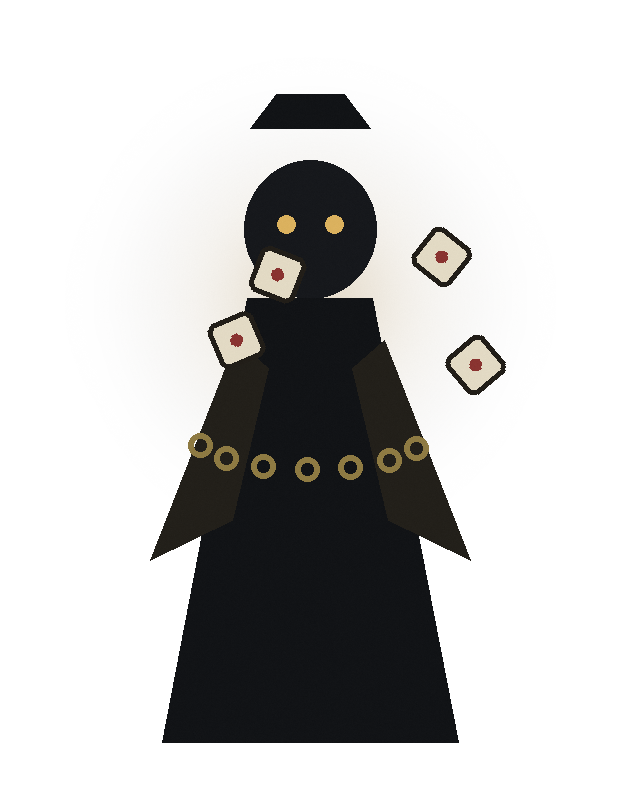
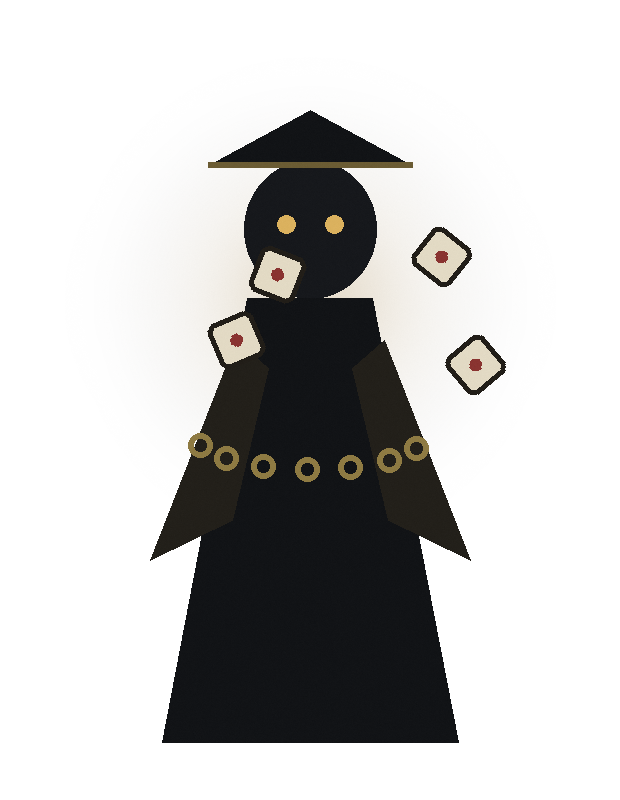
角色形象核对修正 + 全卡牌符号特效
- 修复 4 处形象错位：灯笼小鬼(悬空杆/异物→双灯)、赌鬼(帽悬浮→贴合)、
  义庄看守(散环→锁链连臂)、守灯人(断杖→杖连灯笼)
- 新增 bell_wave 钟波原语；paper_burst 支持色调
- 断念=红灰纸屑 / 灯芯=余烬+灯晕 / 撞钟=钟波震屏，7 张可玩卡全部有专属特效
- CONTENT_DESIGN 新增特效词库：10 原语库 + 21 张新卡映射 + 8 敌专属原语计划
- 烟雾 + 54 项视觉验证通过

Changed region(s): [[0.3371, 0.0938, 0.6742, 0.2188]]

diff --git a/tools/generate_game_assets.py b/tools/generate_game_assets.py
@@ -62,14 +62,14 @@ def make_lantern_imp() -> None:
     draw.ellipse((190, 240, 370, 470), fill=INK)
     draw.ellipse((225, 175, 335, 285), fill=INK)
     eyes(draw, 280, 225, 26, "#f2a03c", 9)
-    for arm_x, tip in [(150, (96, 380)), (410, (464, 380))]:
-        draw.line((230 if arm_x < 280 else 330, 330, arm_x, tip[1]), fill=INK, width=22)
+    draw.line((230, 330, 150, 386), fill=INK, width=22)
+    draw.line((330, 330, 424, 386), fill=INK, width=22)
     draw.rounded_rectangle((96, 380, 176, 470), radius=12, fill="#d98729", outline="#120d0b", width=8)
     draw.line((136, 388, 136, 462), fill="#3a2119", width=5)
-    draw.line((392, 372, 464, 372), fill="#57493a", width=8)
-    draw.ellipse((430, 336, 498, 408), fill="#3c3128", outline="#201a14", width=6)
+    draw.line((136, 388, 136, 372), fill="#57493a", width=6)
+    draw.rounded_rectangle((392, 386, 452, 456), radius=10, fill="#b06f24", outline="#120d0b", width=7)
+    draw.line((422, 394, 422, 448), fill="#3a2119", width=4)
     robe(draw, 280, 470, 600, 120, lean=0)
-    draw.line((258, 250, 232, 470), fill=(242, 160, 60, 150), width=6)
     image = grain(image)
     image.save(OUT / "enemies/lantern_imp.png", optimize=True)
 
@@ -166,7 +166,7 @@ def make_gambler_ghost() -> None:
     image = glow(image, (310, 300), 180, (170, 130, 60), 84)
     draw = ImageDraw.Draw(image)
     draw.ellipse((244, 160, 376, 298), fill="#101216")
-    draw.polygon([(250, 128), (370, 128), (344, 94), (276, 94)], fill=INK)
+    hat(draw, 310, 162, 96, "#6a5a2f")
     eyes(draw, 310, 224, 24, "#e0b45c", 9)
     robe(draw, 310, 298, 742, 148)
     draw.polygon([(236, 340), (150, 560), (232, 520), (268, 368)], fill="#1d1a14")
@@ -203,10 +203,13 @@ def make_mortuary_warden() -> None:
     for y in [500, 560, 620]:
         draw.line((500, y, 654, y), fill="#57493a", width=8)
     draw.line((286, 340, 176, 520), fill=INK, width=26)
-    for i in range(6):
-        a = 0.6 + i * 0.42
-        x, y = 176 + int(math.cos(a) * 60), 520 + int(math.sin(a) * 60)
-        draw.arc((x - 26, y - 26, x + 26, y + 26), 0, 360, fill="#57493a", width=8)
+    chain_x, chain_y = 176, 520
+    for i in range(7):
+        a = 0.35 + i * 0.38
+        chain_x += int(math.cos(a) * 44)
+        chain_y += int(math.sin(a) * 34)
+        draw.arc((chain_x - 24, chain_y - 24, chain_x + 24, chain_y + 24), 0, 360, fill="#57493a", width=9)
+    draw.ellipse((chain_x - 16, chain_y - 16, chain_x + 16, chain_y + 16), fill="#2a2118", outline="#14100c", width=6)
     image = grain(image)
     image.save(OUT / "enemies/mortuary_warden.png", optimize=True)
 
@@ -223,8 +226,8 @@ def make_lantern_keeper() -> None:
     robe(draw, 370, 308, 826, 190)
     draw.polygon([(300, 360), (220, 760), (316, 700), (352, 386)], fill="#5a2a24")
     draw.polygon([(440, 360), (520, 760), (424, 700), (388, 386)], fill="#5a2a24")
-    draw.line((498, 330, 588, 210), fill=INK, width=26)
-    draw.line((588, 210, 588, 150), fill="#57493a", width=10)
+    draw.line((498, 330, 596, 150), fill="#57493a", width=14)
+    draw.line((588, 150, 588, 126), fill="#57493a", width=10)
     draw.rounded_rectangle((528, 150, 648, 320), radius=22, fill="#d98729", outline="#120d0b", width=12)
     draw.line((588, 158, 588, 312), fill="#3a2119", width=8)
     draw.line((534, 236, 642, 236), fill="#3a2119", width=8)

diff --git a/CONTENT_DESIGN.md b/CONTENT_DESIGN.md
@@ -168,6 +168,44 @@ recover 2.80-3.42s （完美时 +0.8 僵直）
 
 ---
 
+## 三·附、特效词库（每卡必有、每敌专属）
+
+原则：不逐卡从零画特效——用 10 个**特效原语**组合；每张可玩卡至少绑定一个原语+本卡颜色；每个敌人至少一个专属原语+专属招式编排（M1 阶段机）。
+
+### 原语库（已实现）
+
+| 原语 | 视觉 | 已绑定 |
+|------|------|--------|
+| paper_burst(tint) | 纸屑四溅+斩线 | 斩纸(米黄)、断念(红灰) |
+| counter_slash(charged) | 双斩交叉 | 还刃(乘势金红) |
+| seal_ring | 青环收束+定身染色 | 镇煞 |
+| embers | 余烬上浮 | 续灯、灯芯 |
+| bell_wave | 钟波双弧扩散+震屏 | 撞钟 |
+| guard_arc(color) | 金/红弧盾 | 防范按下 |
+| hit_sparks | 白金刺 | 通用受击 |
+| parry_burst | 径向大爆发 | 防范成功/完美 |
+| summon_ring | 符环旋落 | 召符 |
+| soul_motes | 魂火升/坠 | 死亡演出 |
+
+### 待实现新卡 → 原语映射（M2 逐批解锁）
+
+逐影=hit_sparks 增量 / 裂帛=counter_slash 双段 / 血账=魂火红 / 白骨引=guard_arc 白 / 收殓=soul_motes 吸取 / 低幡=seal_ring 小号 / 借势=guard_arc 金强化 / 铜镜=parry_burst 自动小号 / 缚魂索=bell_wave+seal / 金身=seal_ring 自身位 / 破胆=counter_slash 紫 / 添油=embers 密 / 问路=summon_ring x3 / 纸马=summon_ring 双 / 长明=embers 全屏 / 借寿=soul_motes 红入体 / 安魂=soul_motes 白净化。
+
+### 每敌人专属原语计划（M1/M5 随阶段机落地）
+
+| 敌人 | 专属原语 | 用于 |
+|------|----------|------|
+| 灯笼小鬼 | 火星溅落 | 灯油泼溅 |
+| 纸扎学徒 | 纸片旋风 | 纸人抱 |
+| 更练尸 | 铜锣声波环 | 梆子二拍 |
+| 剃头匠 | 双刃光弧 | 双剃快连 |
+| 井中姐弟 | 水线鞭挞 | 湿发鞭 |
+| 赌鬼 | 骰子弹跳轨迹 | 骰子三连 |
+| 义庄看守 | 锁链横掠 | 铁链横扫 |
+| 守灯人 | 灯焰领域光罩 | 灯焰领域 |
+
+---
+
 ## 四、技能（内功）系统
 
 被动遗物，战后怨契三选一可出现，每局 3 槽：
